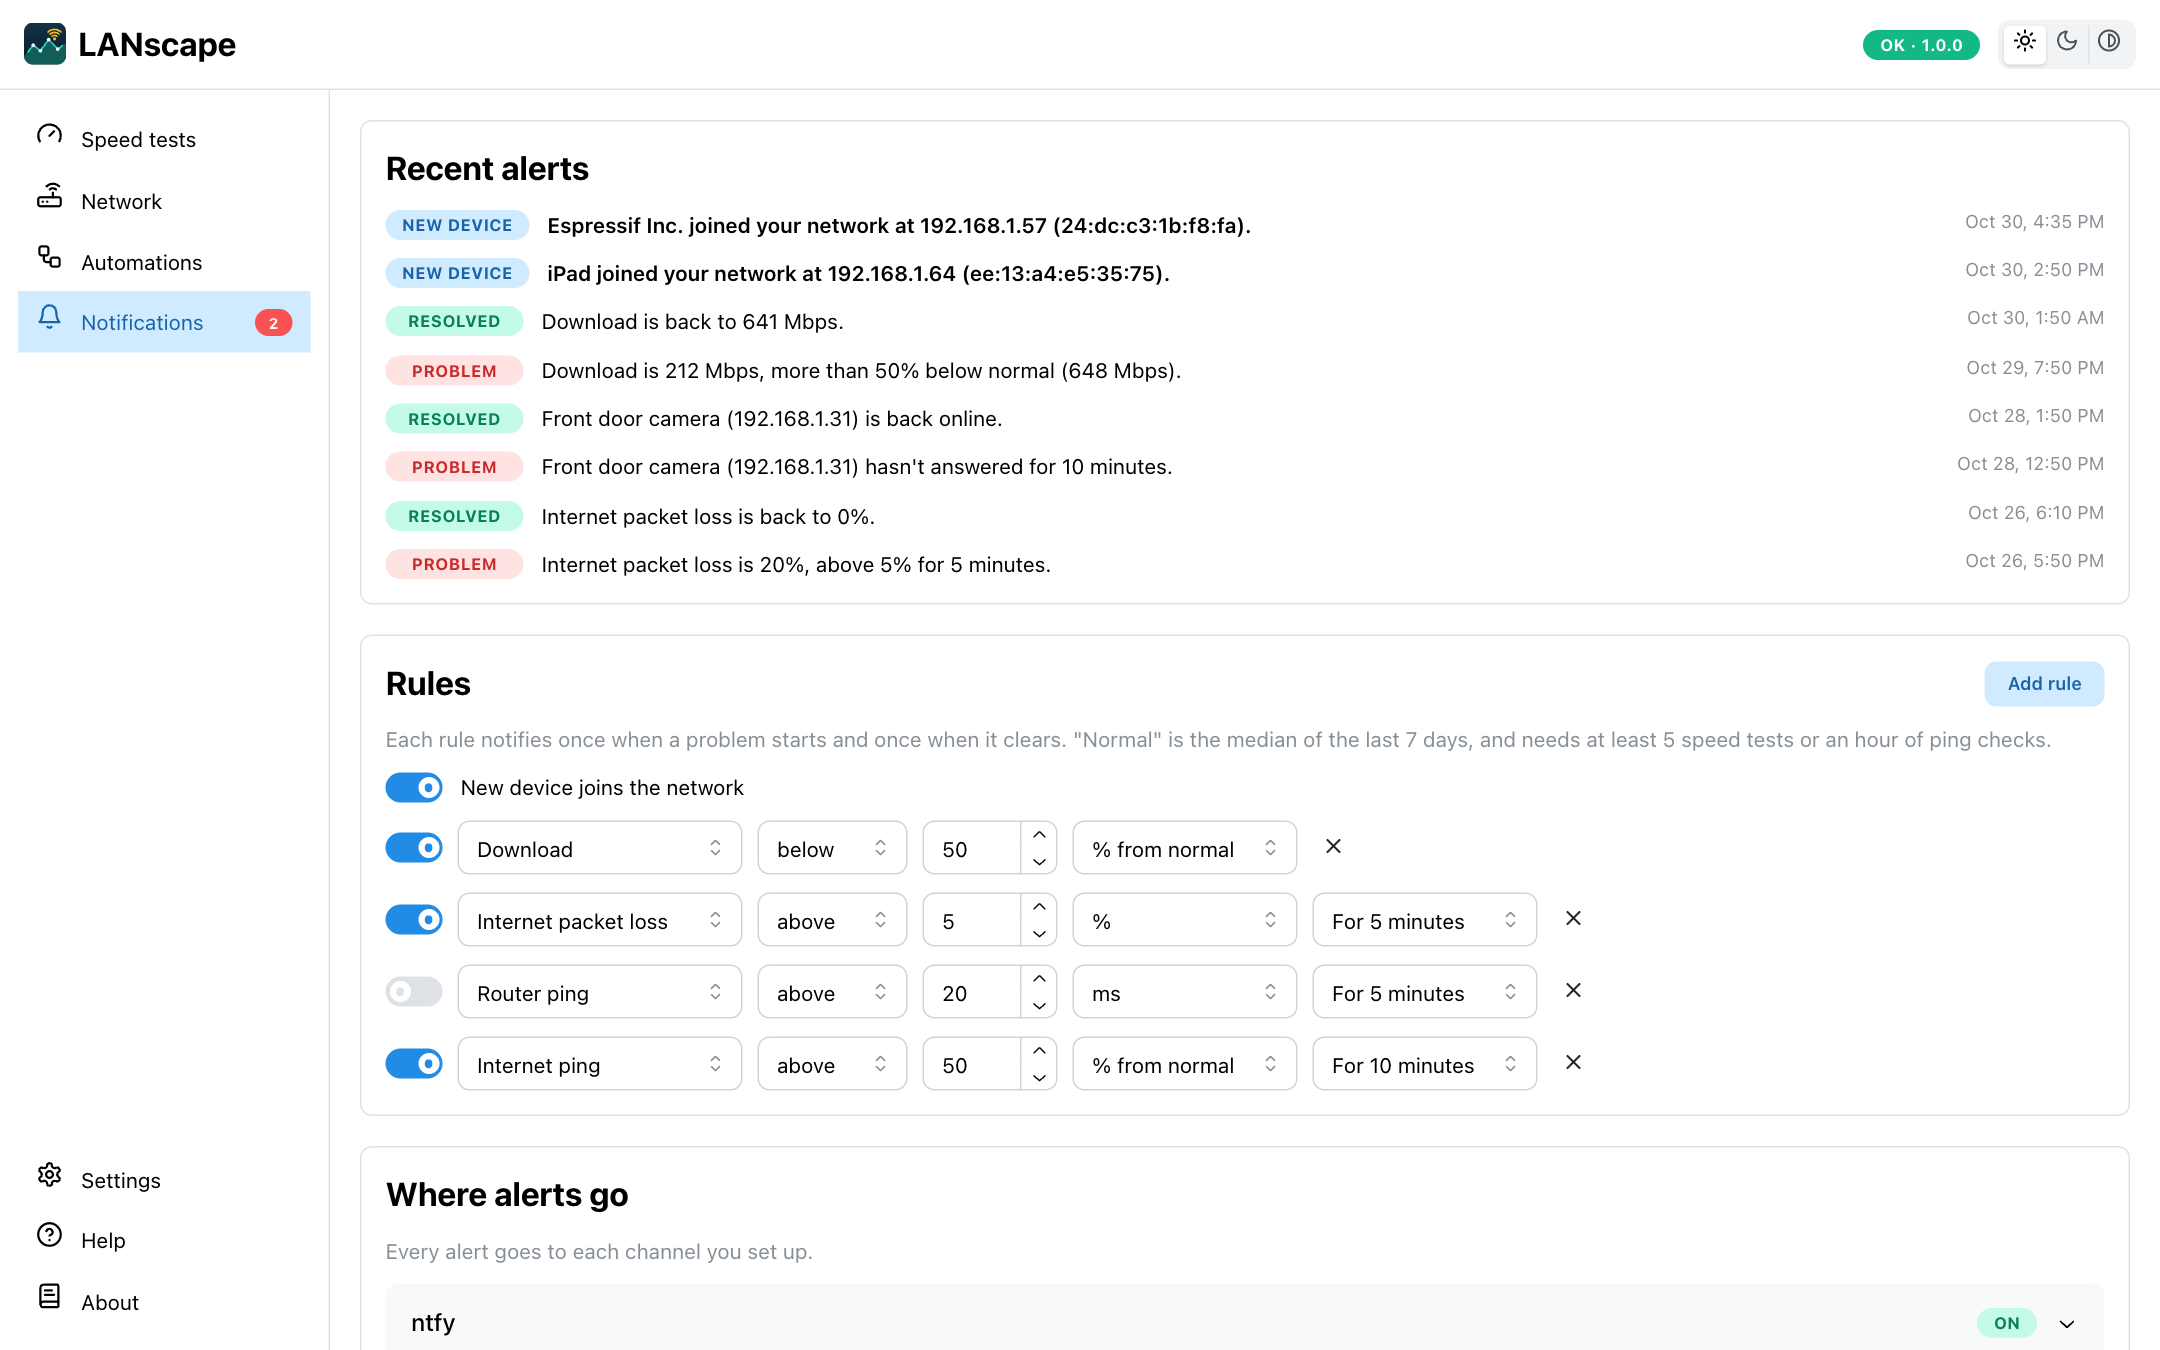
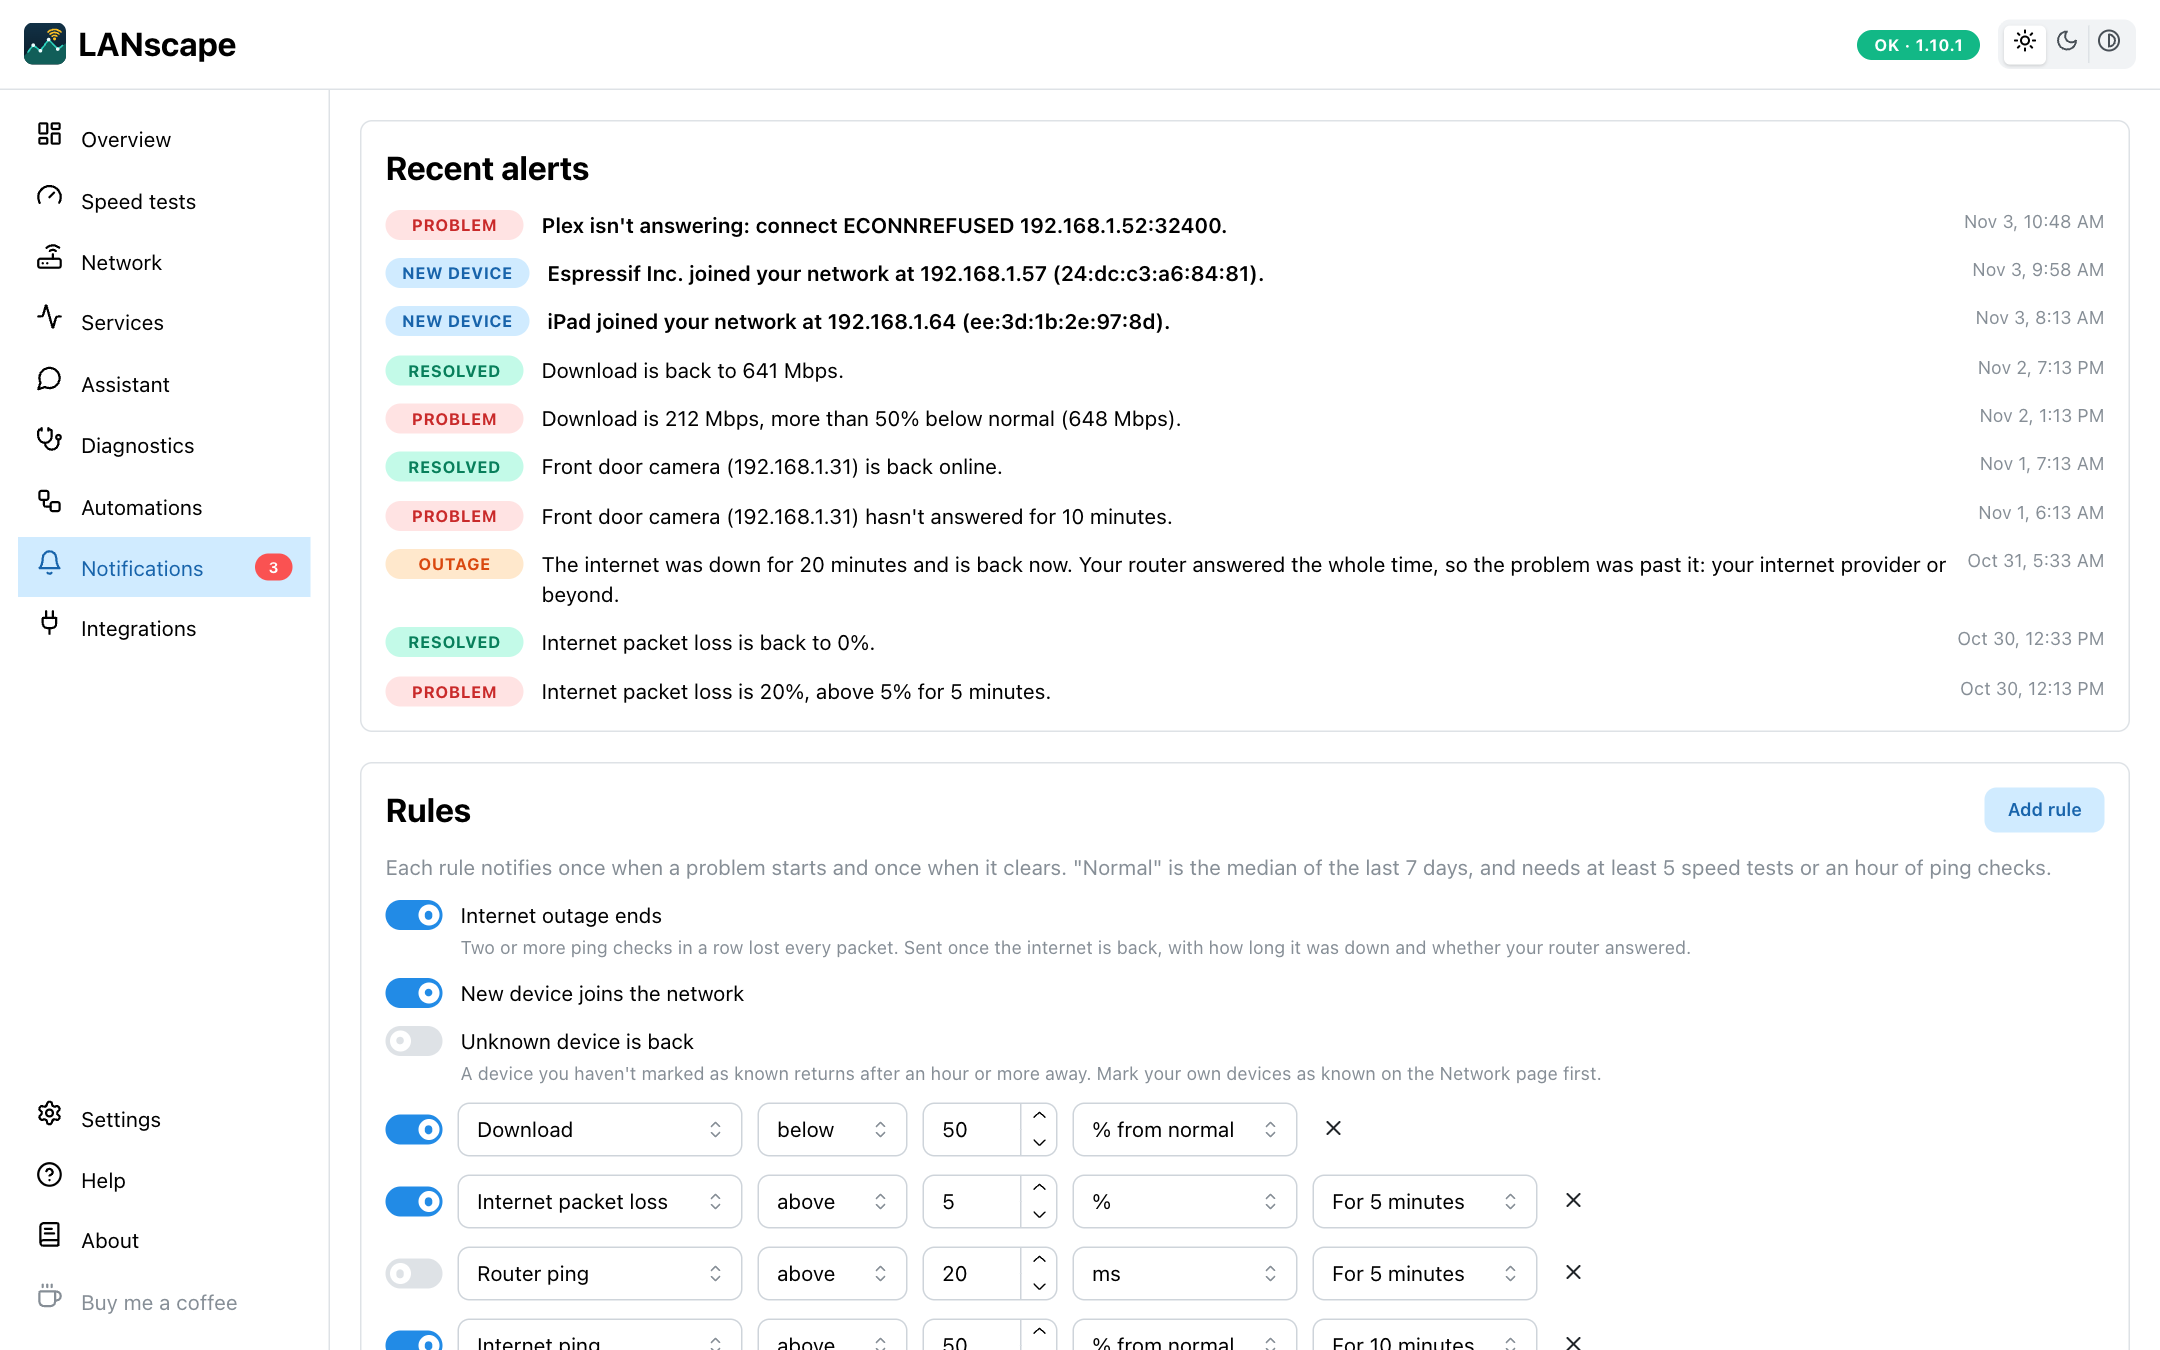
docs: new gallery and screenshots, README and Help brought up to date
The demo seed adds outages, service checks and device models; a stand-in model
answers the Assistant shot from the demo data.

diff --git a/README.md b/README.md
@@ -1,8 +1,8 @@
 # LANscape
 
-![LANscape: speed and latency history](https://raw.githubusercontent.com/SuarezLuis/lanscape/master/docs/assets/gallery/1.jpg)
+![LANscape: your whole network at a glance](https://raw.githubusercontent.com/SuarezLuis/lanscape/master/docs/assets/gallery/1.jpg)
 
-Home network monitoring for [Umbrel](https://umbrel.com): internet speed and latency over time, every device on your network, and alerts when something changes.
+Home network monitoring for [Umbrel](https://umbrel.com) or any Linux machine with Docker: internet speed, latency and outages over time, every device on your network, the services you rely on, and alerts when something changes. Ask an AI assistant about it in plain language, with a model on your own network if you prefer.
 
 Install it from an Umbrel app store: it's in the [SZ community app store](https://github.com/SuarezLuis/umbrel-apps) (add `https://github.com/SuarezLuis/umbrel-apps` under App Store → Community App Stores). User guide: [docs/HELP.md](docs/HELP.md), also on the app's Help page.
 
@@ -11,15 +11,17 @@ Install it from an Umbrel app store: it's in the [SZ community app store](https:
 - **Overview home screen:** internet up or down, health score, latest speed, outages, services with trouble, new devices and the latest alerts at a glance.
 - **Speed tests** on demand or on a schedule, with a live gauge, ping, jitter, and router and internet latency measured just before each test. History charts and a sortable table, from the last 24 hours to all time.
 - **Ping checks** every minute to your router and an internet host (1.1.1.1 by default), tracking latency and packet loss with almost no data. Raw samples older than 90 days are kept as hourly averages.
+- **Weekly pattern** of download, upload and ping by weekday and hour, against your plan speeds.
 - **Internet Health Score** from 0 to 100, from uptime, packet loss, ping and jitter, with each part shown.
 - **Outage timeline:** when the internet was down, for how long, and whether the problem was in your home network or past your router, with an alert when it's back.
 - **Service checks:** watch web apps (HTTP), open ports (TCP) and DNS servers on your LAN, with alerts when they go down and come back.
 - **Diagnostics:** a one-click check of router, internet, DNS, HTTPS and the route, with a plain-language verdict and a report to send your ISP.
 - **Reports:** an optional weekly summary through your alert channels, and a 30-day report to send your ISP.
-- **Device list** from ARP scans every 5 minutes: IP, MAC, maker (from the IEEE OUI registry), names announced over mDNS, and your own names. Includes the Umbrel itself.
+- **Device list** from ARP scans every 5 minutes: IP, MAC, maker (from the IEEE OUI registry), model, names announced over mDNS, UPnP and DHCP, and your own names. Includes the Umbrel itself.
+- **Devices keep their identity across private MAC addresses**, matched by the stable ids they announce (Google Cast, AirPlay, HomeKit, UPnP), what they say when they join (DHCP), or their name.
 - **Identify a device** by switching it off and on between scans.
-- **Per-device history and offline alerts:** mark devices as known, see when each came and went, and get alerted when a chosen device has been offline for a while.
-- **Notification rules** on any measurement, against a fixed value or a percentage from the 7-day median, with a "how long" window. Each rule alerts once when a problem starts and once when it clears. Also alerts when a new device joins.
+- **Per-device history and alerts:** mark devices as known, see when each came and went, and get alerted when a chosen device has been offline for a while or comes back online, like a phone arriving home. Delete a device to hear about it as new next time.
+- **Notification rules** on any measurement, against a fixed value or a percentage from the 7-day median, with a "how long" window. Each rule alerts once when a problem starts and once when it clears. Also alerts when a new device joins, and optionally when an unknown one comes back.
 - **Alert channels:** ntfy, Telegram (the bot answers messages with your chat ID), Discord, Slack and a generic JSON webhook.
 - **Automations page** to schedule speed tests, ping checks and device scans, showing each job's last run and errors.
 - **Choose the speed test server**, or let it pick the nearest.
@@ -35,10 +37,11 @@ Install it from an Umbrel app store: it's in the [SZ community app store](https:
 
 | | |
 |---|---|
-| ![Every device on your network](https://raw.githubusercontent.com/SuarezLuis/lanscape/master/docs/assets/gallery/2.jpg) | ![Alerts and rules](https://raw.githubusercontent.com/SuarezLuis/lanscape/master/docs/assets/gallery/3.jpg) |
-| ![Alerts on your phone](https://raw.githubusercontent.com/SuarezLuis/lanscape/master/docs/assets/gallery/4.jpg) | ![Automations](https://raw.githubusercontent.com/SuarezLuis/lanscape/master/docs/assets/gallery/5.jpg) |
+| ![Speed and latency history](https://raw.githubusercontent.com/SuarezLuis/lanscape/master/docs/assets/gallery/2.jpg) | ![Outages and where they happened](https://raw.githubusercontent.com/SuarezLuis/lanscape/master/docs/assets/gallery/3.jpg) |
+| ![Every device on your network](https://raw.githubusercontent.com/SuarezLuis/lanscape/master/docs/assets/gallery/4.jpg) | ![Ask the assistant about your network](https://raw.githubusercontent.com/SuarezLuis/lanscape/master/docs/assets/gallery/5.jpg) |
+| ![Service checks](https://raw.githubusercontent.com/SuarezLuis/lanscape/master/docs/assets/gallery/6.jpg) | ![Alerts on your phone](https://raw.githubusercontent.com/SuarezLuis/lanscape/master/docs/assets/gallery/7.jpg) |
 
-Made from invented demo data with `scripts/demo/` (seed, capture, gallery).
+Made from invented demo data with `scripts/demo/` (seed, model, capture, gallery).
 
 ## Support
 
@@ -52,7 +55,7 @@ Bug reports and ideas are welcome in [issues](https://github.com/SuarezLuis/lans
 
 Node 26, npm workspaces (`server/`, `web/`), Fastify + tRPC v11, Prisma 7 + SQLite, React 19 + Vite + Mantine.
 
-Background jobs live in `server/src/jobs/`. They shell out to `speedtest-go`, `ping` and `arp-scan`, all included in the Docker image.
+Background jobs live in `server/src/jobs/`. They shell out to `speedtest-go`, `ping`, `arp-scan` and `traceroute`, all included in the Docker image, and listen for mDNS, SSDP and DHCP on the LAN.
 
 ## Develop
 
@@ -93,13 +96,14 @@ Then open `http://<that machine>:4545`. Set `PORT` to use another port.
 
 - **Linux only:** host networking, which device discovery needs, isn't available to containers on Docker Desktop for Mac or Windows. Speed tests and ping checks work there; device scans don't.
 - **Permissions:** `ping` and `arp-scan` need the `NET_RAW` capability, which Docker gives containers by default. If you've dropped it (or use rootless Podman), add `cap_add: [NET_RAW]`.
+- **DHCP:** LANscape listens (never answers) on UDP port 67 to recognize devices; if another DHCP server runs on the same machine, it skips that and the rest works.
 - **Data:** everything is in `./data/lanscape.db`. Back it up from Settings, or copy the folder while the container is stopped.
-- **Updating:** `docker compose pull && docker compose up -d`. Database migrations run on start. To stay on a version, use a tag like `ghcr.io/suarezluis/lanscape:1.8.0` instead of `latest`.
+- **Updating:** `docker compose pull && docker compose up -d`. Database migrations run on start. To stay on a version, use a tag like `ghcr.io/suarezluis/lanscape:1.10.1` instead of `latest`.
 - **Forgot the password:** create an empty file named `reset-password` in `./data` (`sudo touch data/reset-password`, since Docker creates the folder as root) and restart. With `APP_PASSWORD` set it goes back to that; without it, the next visit sets a new one.
 
 ## Release
 
-Every push to `master` publishes `ghcr.io/suarezluis/lanscape:edge`. Tag `vX.Y.Z` to publish `X.Y.Z`, then bump the image and `version` in the app store repo.
+Every push to `master` publishes `ghcr.io/suarezluis/lanscape:edge`. Tag `vX.Y.Z` to publish `X.Y.Z` and `latest`, then bump the image and `version` in the app store repo.
 
 ## License
 

diff --git a/docs/HELP.md b/docs/HELP.md
@@ -1,6 +1,6 @@
 # LANscape help
 
-LANscape watches your home network from your Umbrel: internet speed, latency, the devices on your network, and alerts when something changes.
+LANscape watches your home network from your Umbrel: internet speed, latency and outages, the devices on your network, the services you rely on, and alerts when something changes. You can also ask an AI assistant about it.
 
 ## Signing in
 
@@ -25,6 +25,12 @@ Before each test LANscape also pings your router and your internet host, so the 
 - A full test takes about 25 seconds, slows your network while it runs, and can transfer 2 GB or more on a fast connection. If your plan has a data cap, keep scheduled tests infrequent.
 - **History** shows speed and latency over the last day, week, month, year or all time. The latency chart can show full tests, ping checks, or both.
 - Click a column header in the table to sort by it.
+
+### Weekly pattern
+
+**Weekly pattern** shows your average download, upload and ping by day of the week and hour, so you can see when the connection is usually slow, like weekday evenings. Speeds come from the last year of speed tests, ping from the last 30 days of ping checks. Hours with no speed test stay blank: scheduling tests at a different starting time fills more of them in.
+
+Enter your **plan download** and **plan upload** speeds below it, and the colors show each hour against your plan instead of against your own fastest hour. The Overview and the ISP report use your plan speeds too.
 
 ### Internet health
 
@@ -154,7 +160,7 @@ Alerts always appear under **Recent alerts**. They also go to every channel you 
   4. Click **Find chat ID**, then **Save** and **Send test**.
 - **Discord:** in a channel's settings, go to Integrations, Webhooks, New Webhook, and copy the URL.
 - **Slack:** add an Incoming Webhook to a Slack app and paste its URL.
-- **Webhook:** LANscape POSTs JSON with `app`, `time`, `kind` (`problem`, `resolved`, `device` or `test`), `title`, `message`, `metric`, `value` and `baseline`. Works with Home Assistant, n8n and similar tools.
+- **Webhook:** LANscape POSTs JSON with `app`, `time`, `kind` (`problem`, `resolved`, `device`, `outage`, `report` or `test`), `title`, `message`, `metric`, `value` and `baseline`. Works with Home Assistant, n8n and similar tools.
 
 A channel whose last delivery failed shows **Failing**, with the error.
 
@@ -193,8 +199,9 @@ LANscape tests the connection before saving it. The API key is never sent back t
 AI agents that speak [MCP](https://modelcontextprotocol.io), like OpenClaw or Claude, can read LANscape's data, so you can ask them things like "was the internet slow last night?" or "what joined the network this week?". They get read-only tools for:
 
 - a summary of the network right now, including the Internet Health Score
-- speed test results and latency over time
-- the device list and each device's online/offline history
+- speed test results and latency over time, with packet loss
+- one period against another, like this week against last
+- the device list, each device's online/offline history, and every device's comings and goings
 - internet outages, and whether each was in your home network or past your router
 - the services you watch, and whether each is up
 - the alerts LANscape raised
@@ -227,6 +234,7 @@ Restoring keeps your current password and signed-in browsers. Just before it, LA
 LANscape keeps everything on your Umbrel. It only reaches the internet for:
 
 - speed tests (speedtest.net servers) and pings to your internet host
+- Diagnostics, when you run it: a DNS lookup through 1.1.1.1, a small HTTPS page from Google, and a traceroute
 - alert channels you set up
 - this help page, which your browser loads from GitHub
 
@@ -238,7 +246,7 @@ Speed test results include your public IP address; LANscape never stores it.
 
 - **The Telegram bot doesn't reply:** make sure you messaged the bot whose token you saved; the Telegram panel's **Find chat ID** names the right bot. The bot replies within a few seconds while LANscape is running.
 - **A device keeps showing as away:** it's probably asleep. Phones and battery devices often skip scans.
-- **A speed test fails right away:** check the Umbrel has internet access. The error appears under the button and on the Automations page.
+- **A speed test fails right away:** check the Umbrel has internet access. The error appears under the button and on the Automations page. A scheduled test that fails tries once more a minute later; a timeout says which step hung. **Diagnostics** shows which link is broken.
 - **Something else:** open an issue at [github.com/SuarezLuis/lanscape](https://github.com/SuarezLuis/lanscape/issues).
 
 ## Support LANscape

diff --git a/ROADMAP.md b/ROADMAP.md
@@ -8,6 +8,8 @@ What's planned, and what shipped in which release. Tick items off in the PR that
 ## v1.11.0 (next)
 - [ ] **AI write actions (assistant and MCP):** let the assistant and MCP agents change LANscape's own data, starting with naming devices, then marking devices known, setting per-device online/offline alerts, adding service checks and turning alert rules on or off. Safeguards: the MCP server gets a separate write-scope token (the current one stays read-only); the assistant asks before each change and shows exactly what it will do; every change is logged with who made it and can be undone; and nothing touches the network itself (no router, DNS or firewall changes).
 
+- [x] New store gallery and README screenshots (Overview, outages, Model column, Assistant, services) from refreshed demo data; README and Help brought up to date.
+
 ## Shipped
 
 ### v1.10.1
